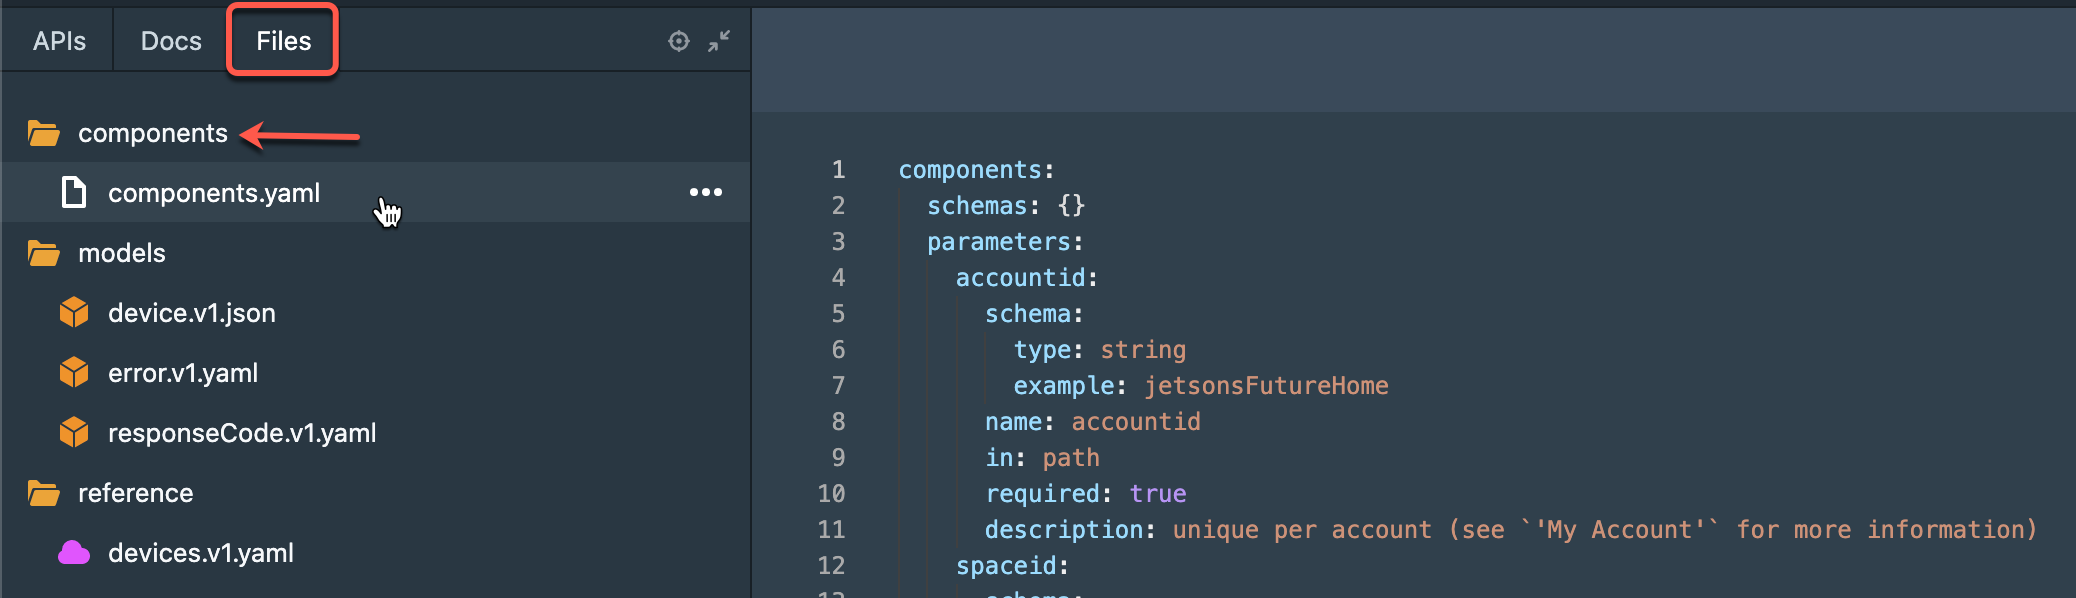
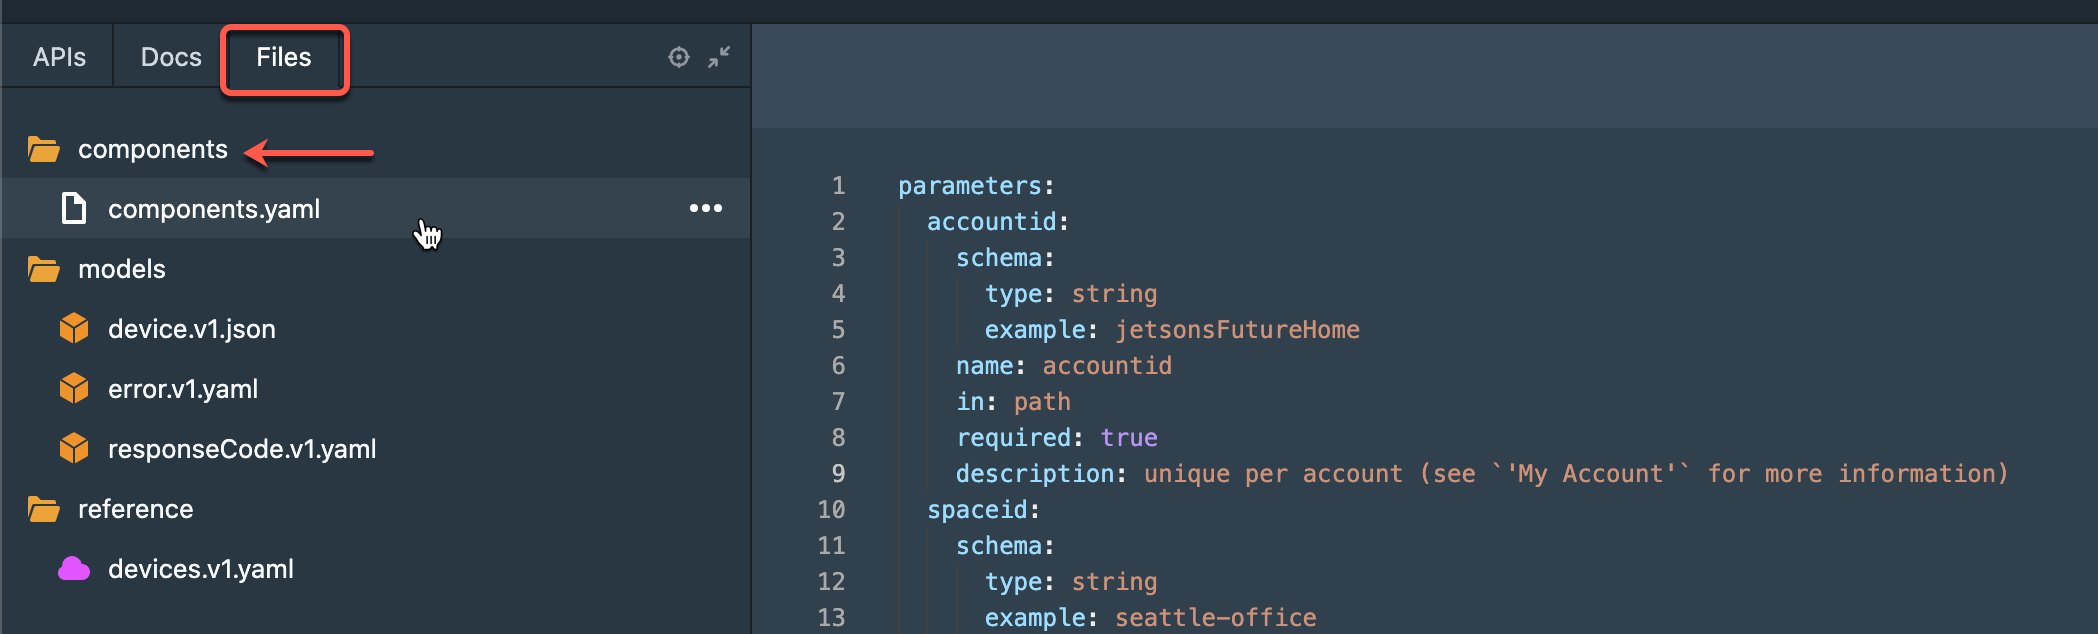
Modified 3 files

diff --git a/docs/sections/3. Create-an-API.md b/docs/sections/3. Create-an-API.md
@@ -35,8 +35,13 @@ Notice the arrow indicating a section called `components` which contains schemas
 
 ![empty components](../../assets/images/emptyComponents.png)
 
-Next go to the 'Files' tab and open the 'components' folder. Select the `components.yaml` file to display a set of parameters.
+Next go to the 'Files' tab and open the 'components' folder. Select the `components.yaml` file to display a set of parameters. 
 
-
+Copy the contents of this file and return to your `devices.v1.yaml` file. 
 
 ![parameters](../../assets/images/parameters.png)
+
+Paste these contents right below `schemas: {}` as shown here:
+
+
+
